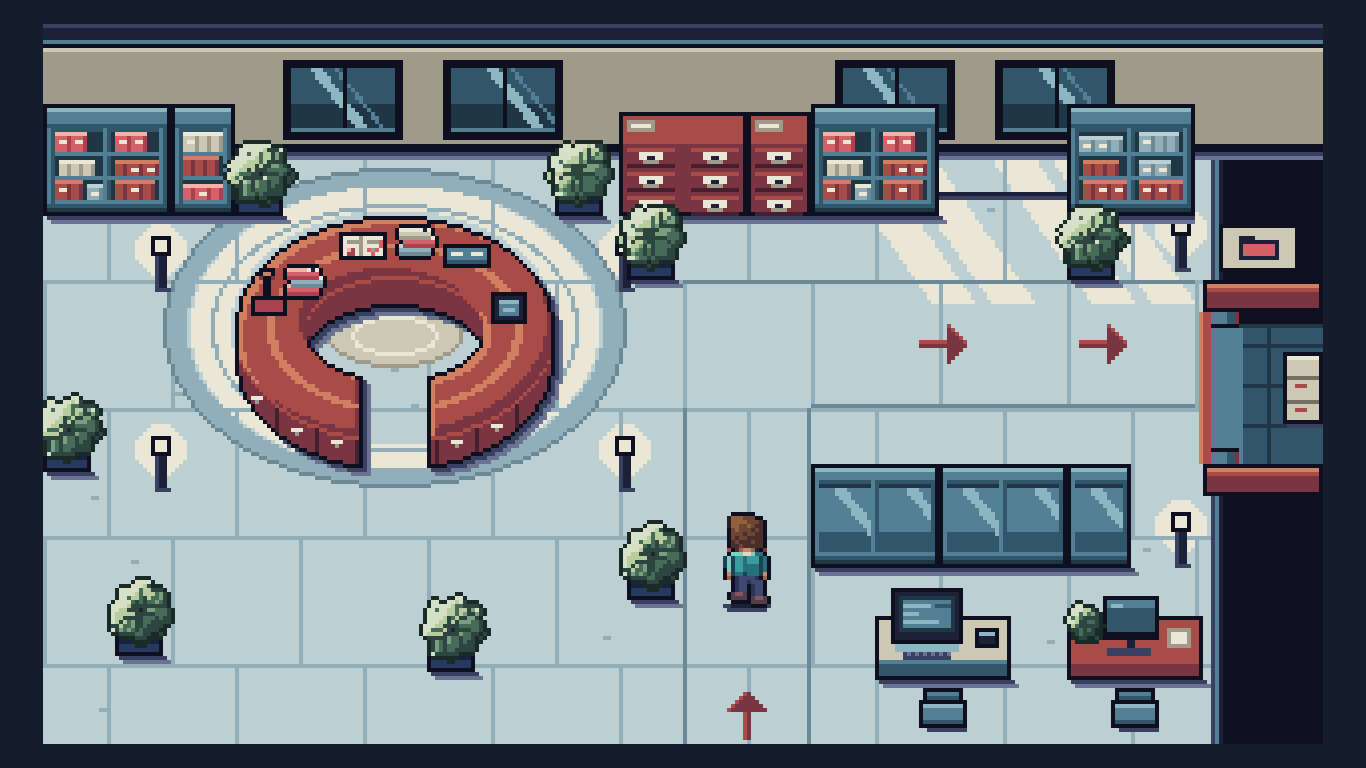
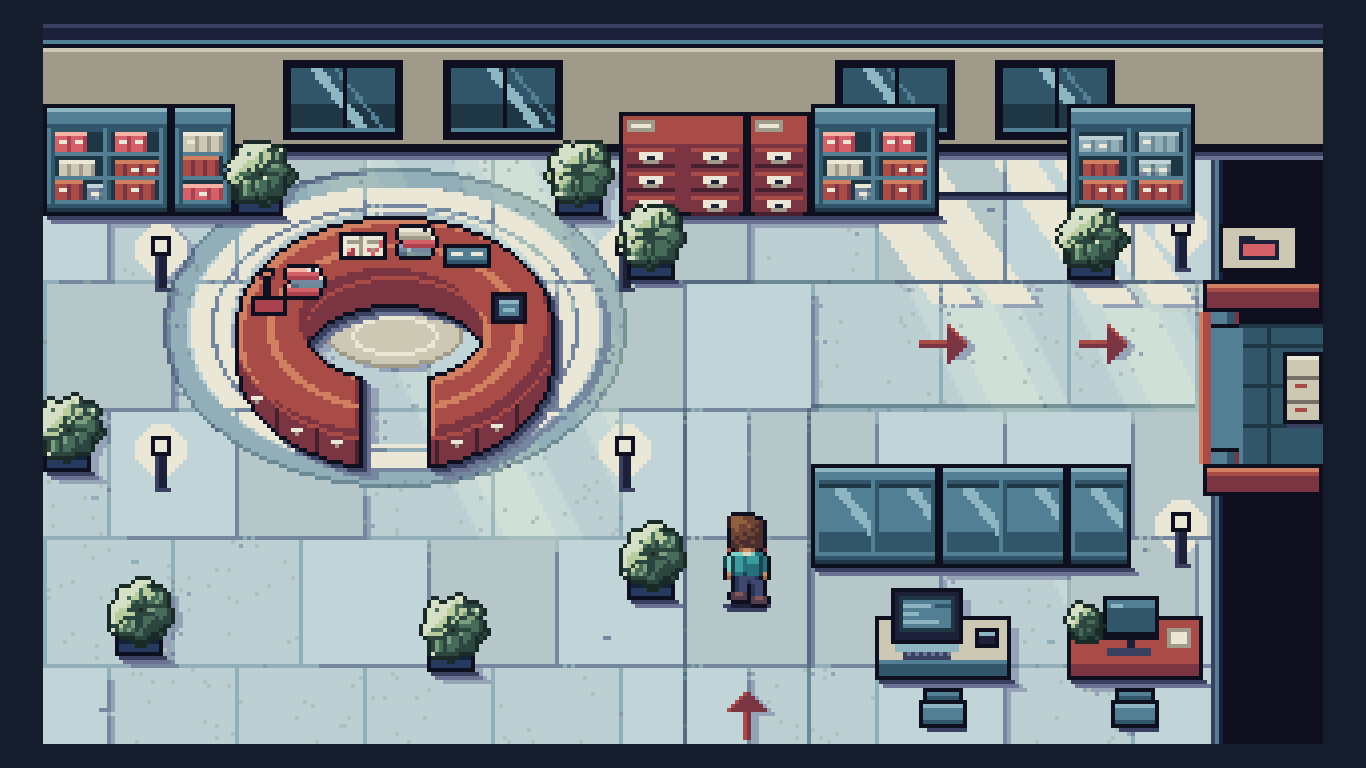
feat(art): light passes for district reference rooms; update handoff

diff --git a/art-direction/kit/rich_finish.py b/art-direction/kit/rich_finish.py
@@ -387,3 +387,28 @@ def light_orientation(a, bst):
     return light_room(a, floor, [(x, y - 1) for x, y in ((92, 72), (180, 72), (180, 130), (284, 52), (284, 126))],
                       [(38, 26), (212, 26), (244, 26)], bst.BRASS[3], canopy=((56, 136, 90, 182), fol[1:]),
                       rug=(76, 106, 260, 292))
+
+
+def light_layout(a, layout, atlas, district, T=16):
+    """Light stage for a district reference room (display only; checks run on the unlit render). Lamps and
+    north windows come from the layout's placements, as in the Orientation reference. Night Shift keeps its
+    own lamp pools and moonlight, so it gets only slab drift and cast shadows; a layout that already places a
+    `window_light` animation keeps its own shafts."""
+    pal = dp.DISTRICTS[district]
+    floor = [hx(pal["floor"][i]) for i in (3, 2, 1)]
+    out = np.array(a, copy=True)
+    lamps, windows, has_light = [], [], False
+    for p in layout["placements"]:
+        x = p["cell"][0] * T + p.get("offset", [0, 0])[0]
+        y = p["cell"][1] * T + p.get("offset", [0, 0])[1]
+        if p.get("anim") == "lamp":
+            lamps.append((x + 7, y + 6))
+        elif p.get("entry", "").startswith("wall_n_window") and x + 2 < 280:
+            windows.append((x + 2, 26))
+        elif p.get("anim") == "window_light":
+            has_light = True
+    if district == "nightshift":
+        lamps, windows = [], []
+    elif has_light:
+        windows = []
+    return light_room(out, floor, lamps, windows, hx(pal["accent"][3]))

diff --git a/art-direction/kit/build_executive.py b/art-direction/kit/build_executive.py
@@ -28,6 +28,7 @@ sys.path.insert(0, HERE)
 import build_kit  # noqa: E402
 import build_records as br  # noqa: E402  (to_screen, corridor_route, luminance: generic helpers, not edited)
 import kitlib  # noqa: E402
+import rich_finish as rf  # noqa: E402
 import executive_kit as xk  # noqa: E402
 import build_gate1 as g  # noqa: E402
 import build_scale_test as bst  # noqa: E402
@@ -483,6 +484,7 @@ def main():
     nchg = landmark_states(layout, atlas)
     before = render(layout, atlas, STATES_BEFORE)
     after = render(layout, atlas, STATES_AFTER)
+    before, after = rf.light_layout(before, layout, atlas, "executive"), rf.light_layout(after, layout, atlas, "executive")  # rich finish light, display only
     Image.fromarray(before).save(os.path.join(HERE, "executive-reference-room-native.png"))
     Image.fromarray(after).save(os.path.join(HERE, "executive-reference-room-after-native.png"))
     br.to_screen(before).save(os.path.join(HERE, "executive-reference-room-1366x768.png"))

diff --git a/art-direction/kit/build_systems.py b/art-direction/kit/build_systems.py
@@ -29,6 +29,7 @@ sys.path.insert(0, HERE)
 import build_kit  # noqa: E402
 import build_records as br  # noqa: E402
 import kitlib  # noqa: E402
+import rich_finish as rf  # noqa: E402
 import systems_kit as sk  # noqa: E402
 import build_scale_test as bst  # noqa: E402
 import district_palettes as dp  # noqa: E402
@@ -433,6 +434,7 @@ def main():
     nchg = landmark_states(layout, atlas)
     before = br.render(layout, atlas, STATES_BEFORE, engineer=ENGINEER)
     after = br.render(layout, atlas, STATES_AFTER, engineer=ENGINEER)
+    before, after = rf.light_layout(before, layout, atlas, "systems"), rf.light_layout(after, layout, atlas, "systems")  # rich finish light, display only
     Image.fromarray(before).save(os.path.join(HERE, "systems-reference-room-native.png"))
     Image.fromarray(after).save(os.path.join(HERE, "systems-reference-room-after-native.png"))
     br.to_screen(before).save(os.path.join(HERE, "systems-reference-room-1366x768.png"))

diff --git a/art-direction/kit/build_nightshift.py b/art-direction/kit/build_nightshift.py
@@ -30,6 +30,7 @@ sys.path.insert(0, HERE)
 import build_kit  # noqa: E402
 import build_records as br  # noqa: E402
 import kitlib  # noqa: E402
+import rich_finish as rf  # noqa: E402
 import nightshift_kit as nk  # noqa: E402
 import build_gate1 as g  # noqa: E402
 import build_palettes as bp  # noqa: E402
@@ -920,6 +921,7 @@ def main():
     nchg = landmark_states(layout, atlas)
     before = render(layout, atlas, STATES_BEFORE)
     after = render(layout, atlas, STATES_AFTER)
+    before, after = rf.light_layout(before, layout, atlas, "nightshift"), rf.light_layout(after, layout, atlas, "nightshift")  # rich finish light, display only
     Image.fromarray(before).save(os.path.join(HERE, "nightshift-reference-room-native.png"))
     Image.fromarray(after).save(os.path.join(HERE, "nightshift-reference-room-after-native.png"))
     to_screen(before).save(os.path.join(HERE, "nightshift-reference-room-1366x768.png"))

diff --git a/art-direction/kit/build_records.py b/art-direction/kit/build_records.py
@@ -27,6 +27,7 @@ HERE = os.path.dirname(os.path.abspath(__file__))
 sys.path.insert(0, HERE)
 import build_kit  # noqa: E402
 import kitlib  # noqa: E402
+import rich_finish as rf  # noqa: E402
 import records_kit as rk  # noqa: E402
 import build_gate1 as g  # noqa: E402
 import build_scale_test as bst  # noqa: E402
@@ -685,6 +686,7 @@ def main():
     nchg = landmark_states(layout, atlas)
     before = render(layout, atlas, STATES_BEFORE)
     after = render(layout, atlas, STATES_AFTER)
+    before, after = rf.light_layout(before, layout, atlas, "records"), rf.light_layout(after, layout, atlas, "records")  # rich finish light, display only
     Image.fromarray(before).save(os.path.join(HERE, "records-reference-room-native.png"))
     Image.fromarray(after).save(os.path.join(HERE, "records-reference-room-after-native.png"))
     to_screen(before).save(os.path.join(HERE, "records-reference-room-1366x768.png"))

diff --git a/art-direction/ART_HANDOFF.md b/art-direction/ART_HANDOFF.md
@@ -6,12 +6,12 @@ You should never need to invent a visual. If something you need is missing, it i
 
 ## 1. Ground rules for the renderer
 
-- **Rich finish (2026-10-02).** The world is moving to a vivid palette with deeper darks, leaf-fan foliage and a lighting pass, still on the 16 px grid. The assets indexed below were approved before it and are being re-rendered (OpenSpec change `adopt-rich-finish`); until a file's spec says otherwise, treat colour values in this handoff as the pre-finish ones. Anchors, footprints, collision, layers, timing and file formats do not change. The outline colour becomes `#0E1020`. See [`rich-finish/RICH_FINISH_SPEC.md`](rich-finish/RICH_FINISH_SPEC.md).
+- **Rich finish (2026-10-02).** The world uses a vivid palette with deeper darks, leaf-fan foliage and a flat-step lighting pass, on the 16 px grid. The assets indexed below were re-rendered to it (OpenSpec change `adopt-rich-finish`); colour tables in individual specs written before the finish show pre-finish values for ink, glass, wood, garden green, brass and coral, and `rich-finish/RICH_FINISH_SPEC.md` and `palettes/district_palettes.py` hold the current ones. Anchors, footprints, collision, layers, timing and file formats did not change. The outline colour is `#0E1020`. See [`rich-finish/RICH_FINISH_SPEC.md`](rich-finish/RICH_FINISH_SPEC.md).
 
 - **Grid and view.** 16×16 px tiles, a 320×180 logical view, nearest-neighbour integer zoom only: ×4 on 1366×768 (a 1280×720 stage, letterboxed) and ×6 on 1920×1080. An optional wider view is 427×240 at ×3. Never scale fractionally or smooth.
 - **Draw order** (STYLE_BIBLE §6): `floor` → `rear_wall` → `floor_marking` → `rear_prop` → `shadow` → `actor` → `front_prop` → `light` → DOM UI. Within `rear_prop`, `actor` and `front_prop`, sort by the anchor's y (entries with `y_sort: true`). No parallax or horizon layer.
-- **Contact shadows** under people and glitches are drawn by the renderer at the anchor, not baked into frames (`#535971` outer, `#343650` core; see `gate1/build_gate1.py` `contact_shadow`). Under the rich finish these become `#3A4160` outer and `#1C2038` core (`rich-finish/RICH_FINISH_SPEC.md`). Environment props bake theirs (`contact_shadow` rect in the atlas entry).
-- **Night Shift rim pass.** Cool moonlight on the open floor; where a warm source lights someone (a lamp pool, Ada's lantern) the warm edge is limited to the head and shoulders (player decisions 2026-10-02; the warm `#F9D79A` rim everywhere read as a selection highlight near discovery gold). The rule is per pixel and reads the scene under the sprite frame: for each upper-left silhouette pixel (a transparent pixel above or to its left), take the background pixel at that transparent neighbour (above, else left). (1) Moonlight: recolour the pixel to `#8E96B8` (glass step 2, `NIGHT_RIM` in `palettes/district_palettes.py`) only if it is `#202337` or below 3:1 against that background AND the rim contrasts with it more than the pixel does; on the slate floor (`#4C5865`) it shows (2.49:1 against 2.13:1). (2) Warm light: if the background is a lamp-pool colour (accent steps 0 and 1) and the pixel is on sprite rows 0-12 (`WARM_RIM_ROWS = 13`, head and shoulders), ink becomes `#F9D79A` when that reaches 2.5:1 against the pool (2.68:1 on `#B8745A`); rows 13-23 keep the ink outline (4.19:1). The reference implementation is `night_rim(sprite_rgba, background_rgb_patch, rim_hex)` in `palettes/night_rim.py` (also `nightshift_kit.night_rim`; `night_rim_on_scene` cuts the patch from the canvas). Pixels that are already `#F9D79A` (Ada's baked lantern rim, key `R`, now on the lantern side of her head and shoulders, rows 5-10) are left alone, and the landmark's window silhouettes keep their own warm rim (they are backlit by the lit room). Props get a silver top-left edge (`#D0D4E4`) instead, so people and furniture never share an edge colour. See `cast/ADA_SPEC.md`, `kit/NIGHTSHIFT_KIT_SPEC.md` and `palettes/PALETTES_SPEC.md`.
+- **Contact shadows** under people and glitches are drawn by the renderer at the anchor, not baked into frames (`#3A4160` outer, `#1C2038` core; see `gate1/build_gate1.py` `contact_shadow`). Under the rich finish these become `#3A4160` outer and `#1C2038` core (`rich-finish/RICH_FINISH_SPEC.md`). Environment props bake theirs (`contact_shadow` rect in the atlas entry).
+- **Night Shift rim pass.** Cool moonlight on the open floor; where a warm source lights someone (a lamp pool, Ada's lantern) the warm edge is limited to the head and shoulders (player decisions 2026-10-02; the warm `#F9D79A` rim everywhere read as a selection highlight near discovery gold). The rule is per pixel and reads the scene under the sprite frame: for each upper-left silhouette pixel (a transparent pixel above or to its left), take the background pixel at that transparent neighbour (above, else left). (1) Moonlight: recolour the pixel to `#8E96B8` (glass step 2, `NIGHT_RIM` in `palettes/district_palettes.py`) only if it is `#0E1020` or below 3:1 against that background AND the rim contrasts with it more than the pixel does; on the slate floor (`#4C5865`) it shows (2.49:1 against 2.13:1). (2) Warm light: if the background is a lamp-pool colour (accent steps 0 and 1) and the pixel is on sprite rows 0-12 (`WARM_RIM_ROWS = 13`, head and shoulders), ink becomes `#F9D79A` when that reaches 2.5:1 against the pool (2.68:1 on `#B8745A`); rows 13-23 keep the ink outline (4.19:1). The reference implementation is `night_rim(sprite_rgba, background_rgb_patch, rim_hex)` in `palettes/night_rim.py` (also `nightshift_kit.night_rim`; `night_rim_on_scene` cuts the patch from the canvas). Pixels that are already `#F9D79A` (Ada's baked lantern rim, key `R`, now on the lantern side of her head and shoulders, rows 5-10) are left alone, and the landmark's window silhouettes keep their own warm rim (they are backlit by the lit room). Props get a silver top-left edge (`#D0D4E4`) instead, so people and furniture never share an edge colour. See `cast/ADA_SPEC.md`, `kit/NIGHTSHIFT_KIT_SPEC.md` and `palettes/PALETTES_SPEC.md`.
 - **Lights** with `composite.mode: "where_color"` paint only over pixels of the given floor colour (lamp glows never wash over joints or props).
 - **Colour meaning.** Teal `#19AFA2` terminals, coral `#EC776D` conversations, violet `#9876D5` glitches, gold `#E6B750` opened routes. These are UI marker hexes and never appear in world art. Markers are also distinct by shape (speech bubble, monitor, diamond with doorway, folded page); see `ui-kit/COMPONENTS.md`.
 - **Reduced motion.** Hold idle frame 0 instead of looping idles, and hold Ivo's tablet flash on its dim frame.
@@ -131,11 +131,11 @@ PNG, GIF and JSON art files are generated outputs: change the source module, reb
 
 ## 7. Known gaps
 
-- The whole asset set predates the rich finish and needs the re-render listed in OpenSpec change `adopt-rich-finish`. The recolour to the v2 ramps and ink is done in code; leaf-fan foliage, the garden parts and the light passes follow.
+- The rich finish is applied (OpenSpec change `adopt-rich-finish`): every kit, sprite, glitch, Pace and portrait asset uses the v2 ramps and the `#0E1020` outline; plants are leaf fans in blue planters; the Orientation garden has the detailed parts; the reference rooms carry the flat-step light stage (`kit/rich_finish.py`). Colour tables elsewhere in this file still show base values for stone, floors and clothing, which did not change.
 
 Status after wave 2 of the producer's gap review (2026-10-02; register: `docs/GAP_REGISTER.md`). Every gap of the art deck is closed: Layout help on all four tabs and the screens the game spec requires, quest props and landmark states for all five districts, the shared elevator, desk-front occluders and optional artifacts, Vale softening states and Hal's poses, glitch repair frames and the variant table, seated background workers, and level data for every district. What remains is polish and the next art direction.
 
-- The rich finish (Mock 2.1; the art director's rich-finish spec, on the branch feat/art-rich-finish until it is reviewed) is the approved next look: every kit, sprite, glitch, Pace and portrait asset is to be re-rendered with its geometry, footprints, collision, layers and anchors unchanged, so the level data keeps validating. Until that lands the specs carry a "re-render needed" banner.
+- The rich finish (Mock 2.1) is applied to every kit, sprite, glitch, Pace and portrait asset with geometry, footprints, collision, layers and anchors unchanged, so the level data keeps validating. Specs still carry their "re-render needed" banner text until a later pass edits it out.
 - UI: high-contrast and larger-text variants are described but not rendered; the Microsoft keyboard variant of Layout help is drawn for the base tab only and the practice tab for the MacBook only.
 - Seated workers face south only (the kit has no camera-side chair and occluder); typing and phone detail is small at 1x because the occluder hides row 15 and below.
 - Vale state 1 is a 1 px shoulder drop and subtle at 1x; Hal's south-facing crouch is the weakest frame.

diff --git a/art-direction/STYLE_BIBLE.md b/art-direction/STYLE_BIBLE.md
@@ -66,7 +66,7 @@ Each district is 8 ramps of 4 steps, shadow to light, in the same roles as Orien
 | accent | `#6B2F45` `#A9414F` `#D4606A` `#F4B1A4` (coral files) | `#7A2F1B` `#C2521A` `#F2842B` `#FFB36B` (safety orange) | `#7A4A4A` `#B8745A` `#E8A55F` `#F9D79A` (lamp pools) | `#5E2F2B` `#A4573A` `#D88149` `#F2B98A` (copper) |
 
 - **Markers.** No step of any new district ramp is within CIE76 dE 10 of `#19AFA2`, `#EC776D`, `#9876D5` or `#E6B750`. Teal-hued steps (160-200 degrees) on non-device ramps stay at or below 60% saturation. `check_palettes.py` enforces both.
-- **Night Shift is a dark-floor district.** The `#202337` outline cannot carry a silhouette on it, so people get a quiet 1 px hard cool moonlight rim in `#8E96B8` (glass step 2) on their upper-left contour, applied per pixel only where it beats the pixel's own contrast against the scene behind it (on the slate floor it replaces the ink outline at 2.5:1 against 2.1:1). Where a warm source lights someone, inside a lamp pool or by Ada's lantern, the warm edge `#F9D79A` (accent step 3) is limited to the head and shoulders (sprite rows 0-12) and the body keeps its ink outline (4.2:1 on a pool). The earlier warm rim everywhere read as a "selected" highlight next to discovery gold and was replaced by the player on 2026-10-02. The contact shadow is floor step 0 over `#202337`, and desks sit in lamp pools drawn as floor fill to accent step 1 with joints in accent step 0. Outline on a pool is 4.2:1. The floor is a cool slate (hue 210, at most 18% saturation) and is deliberately not plum or indigo: no floor or wall step in any district may sit in hue 260-320 degrees above 12% saturation, so violet stays the glitch colour and glitches pop hardest here.
+- **Night Shift is a dark-floor district.** The `#0E1020` outline cannot carry a silhouette on it, so people get a quiet 1 px hard cool moonlight rim in `#8E96B8` (glass step 2) on their upper-left contour, applied per pixel only where it beats the pixel's own contrast against the scene behind it (on the slate floor it replaces the ink outline at 2.5:1 against 2.1:1). Where a warm source lights someone, inside a lamp pool or by Ada's lantern, the warm edge `#F9D79A` (accent step 3) is limited to the head and shoulders (sprite rows 0-12) and the body keeps its ink outline (4.2:1 on a pool). The earlier warm rim everywhere read as a "selected" highlight next to discovery gold and was replaced by the player on 2026-10-02. The contact shadow is floor step 0 over `#202337`, and desks sit in lamp pools drawn as floor fill to accent step 1 with joints in accent step 0. Outline on a pool is 4.2:1. The floor is a cool slate (hue 210, at most 18% saturation) and is deliberately not plum or indigo: no floor or wall step in any district may sit in hue 260-320 degrees above 12% saturation, so violet stays the glitch colour and glitches pop hardest here.
 - **Cast skin and hair.** Noor, Hal, Ada and Vale have their own ramps (see PALETTES_SPEC.md "Cast ramps"). Corresponding mid steps are at least dE 12 from every other cast member.
 
 ## 4. Camera, grid, and scale

diff --git a/openspec/changes/adopt-rich-finish/tasks.md b/openspec/changes/adopt-rich-finish/tasks.md
@@ -8,15 +8,15 @@
 
 ## 2. People, props and shadows
 
-- [ ] 2.1 Change the outline key to `#0E1020` and move the ink shoe ramp to `#1C2038` `#3A4160` `#6A7392` in every sprite module (Engineer, Ivo, Mira, Noor, Hal, Ada, Vale, both background workers); verify `check_gate1.py <module>` passes for each and every atlas and JSON is rebuilt
-- [ ] 2.2 Update the glitch and Pace modules for the outline colour; verify their builds and checks pass
-- [ ] 2.3 Change the renderer contact shadow to `#3A4160` outer and `#1C2038` core in `gate1/build_gate1.py` and the atlas `shadow` notes; verify the Gate 1 scene builds
+- [x] 2.1 Change the outline key to `#0E1020` and move the ink shoe ramp to `#1C2038` `#3A4160` `#6A7392` in every sprite module (Engineer, Ivo, Mira, Noor, Hal, Ada, Vale, both background workers); verify `check_gate1.py <module>` passes for each and every atlas and JSON is rebuilt
+- [x] 2.2 Update the glitch and Pace modules for the outline colour; verify their builds and checks pass
+- [x] 2.3 Change the renderer contact shadow to `#3A4160` outer and `#1C2038` core in `gate1/build_gate1.py` and the atlas `shadow` notes; verify the Gate 1 scene builds
 - [ ] 2.4 Review the chibi portraits' outline against `#0E1020`, record the decision in `portraits/PORTRAITS_SPEC.md`, and rebuild if changed; verify `check_portraits.py` passes
 
 ## 3. Orientation
 
-- [ ] 3.1 Re-render the Orientation kit with the v2 palette and leaf-fan foliage and planters; verify `kit/check_atlas.py` passes and every footprint, collision string, layer and anchor is unchanged
-- [ ] 3.2 Rebuild the garden landmark parts (tree, pond, rocks, flowers, benches, lamps) for both quest states per the spec; verify the after state still changes at least two visible things
+- [x] 3.1 Re-render the Orientation kit with the v2 palette and leaf-fan foliage and planters; verify `kit/check_atlas.py` passes and every footprint, collision string, layer and anchor is unchanged
+- [x] 3.2 Rebuild the garden landmark parts (tree, pond, rocks, flowers, benches, lamps) for both quest states per the spec; verify the after state still changes at least two visible things
 - [ ] 3.3 Add the light passes to the reference-room renderer and rebuild the review room; verify the frame matches the approved Mock 2.1 and rebase the `build_room.py` zero-difference test onto it
 
 ## 4. Districts
